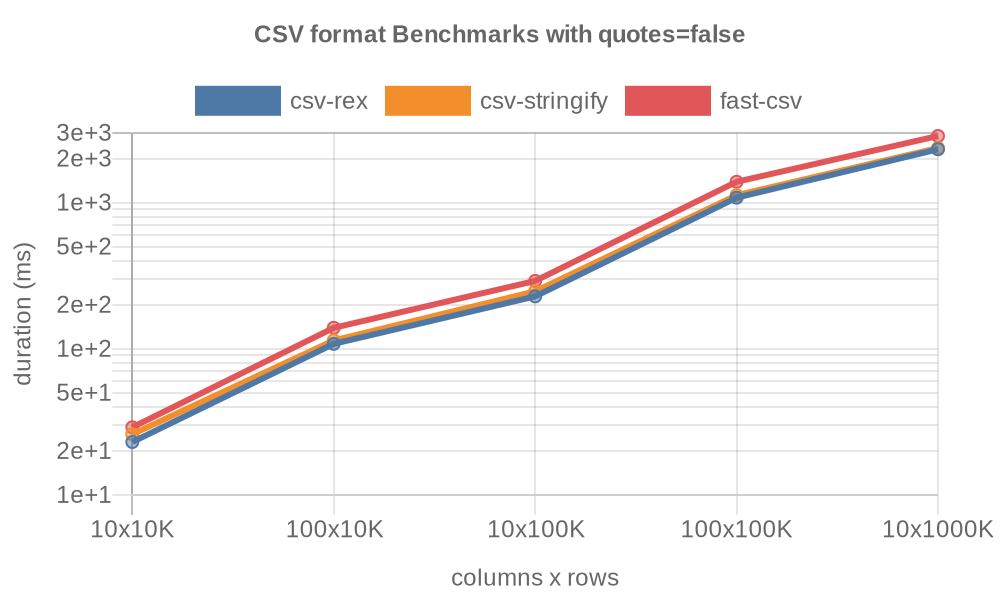
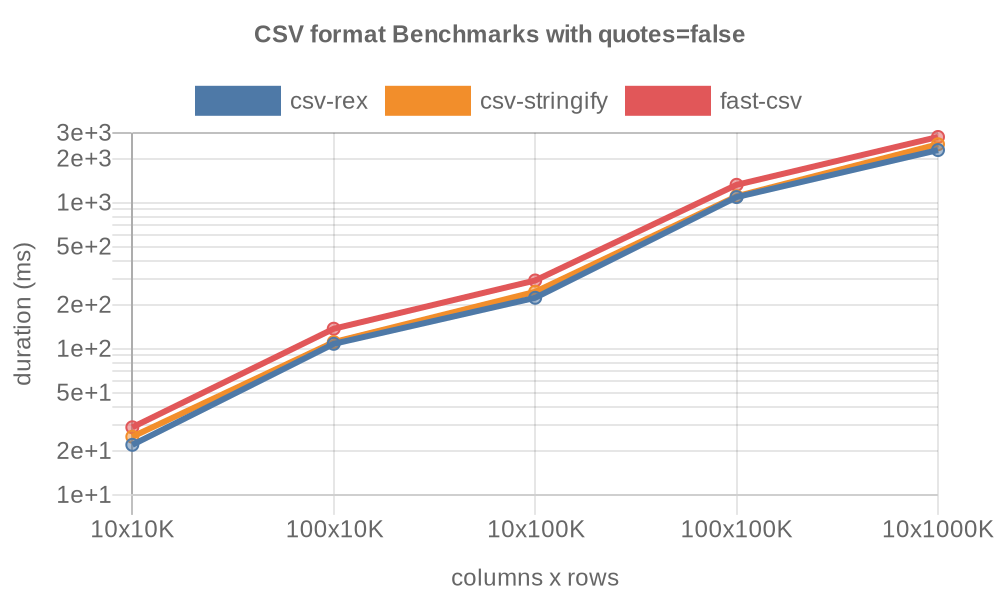
ci: update results

Changed region(s): [[0.124, 0.21, 0.961, 0.75]]

diff --git a/README.md b/README.md
@@ -5,14 +5,14 @@ Benchmarks of popular CSV parsers and formatters:
 <!-- packages -->
 | Package | Version | Published | Parse | Format 
 |---------|---------|-----------|-------|--------
-| [csv-parse](https://www.npmjs.com/package/csv-parse) | 5.5.6 | 4 months ago | Yes |  
+| [csv-parse](https://www.npmjs.com/package/csv-parse) | 5.5.6 | 5 months ago | Yes |  
 | [csv-parser](https://www.npmjs.com/package/csv-parser) | 3.0.0 | 4 years ago | Yes |  
 | [csv-rex](https://www.npmjs.com/package/csv-rex) | 0.7.0 | 1 year ago | Yes | Yes 
-| [csv-streamify](https://www.npmjs.com/package/csv-streamify) | 4.0.0 | 6 years ago | Yes |  
-| [csv-stringify](https://www.npmjs.com/package/csv-stringify) | 6.5.1 | 1 month ago |  | Yes 
+| [csv-streamify](https://www.npmjs.com/package/csv-streamify) | 4.0.0 | 7 years ago | Yes |  
+| [csv-stringify](https://www.npmjs.com/package/csv-stringify) | 6.5.1 | 2 months ago |  | Yes 
 | [csvtojson](https://www.npmjs.com/package/csvtojson) | 2.0.10 | 5 years ago | Yes |  
-| [fast-csv](https://www.npmjs.com/package/fast-csv) | 5.0.1 | 7 months ago | Yes | Yes 
-| [papaparse](https://www.npmjs.com/package/papaparse) | 5.4.1 | 1 year ago | Yes |  
+| [fast-csv](https://www.npmjs.com/package/fast-csv) | 5.0.1 | 8 months ago | Yes | Yes 
+| [papaparse](https://www.npmjs.com/package/papaparse) | 5.4.1 | 2 years ago | Yes |  
 <!-- packages -->
 
 Your preferred CSV package missing? PRs welcome. Excluded packages in `/docs/EXCLUDED.md`.
@@ -39,13 +39,13 @@ Benchmarked on GitHub Actions. Only the fastest 5 will be visualized.
 <!-- parse quotes=true -->
 | Package | 10x10K | 100x10K | 10x100K | 100x100K | 10x1000K 
 |---------|---|---|---|---|---
-| **csv-rex** | 24ms | 172ms | 212ms | 1,724ms | 2,126ms 
-| **papaparse** | 43ms | 209ms | 406ms | 1,992ms | 3,918ms 
-| **csv-parser** | 38ms | 349ms | 390ms | 3,668ms | 4,116ms 
-| **csvtojson** | 56ms | 451ms | 558ms | 4,528ms | 5,611ms 
-| **csv-parse** | 77ms | 667ms | 745ms | 6,802ms | 7,873ms 
-| **csv-streamify** | 78ms | 700ms | 805ms | 7,778ms | 8,941ms 
-| **fast-csv** | 106ms | 937ms | 1,079ms | 9,743ms | 11,226ms 
+| **csv-rex** | 24ms | 188ms | 230ms | 1,890ms | 2,300ms 
+| **papaparse** | 42ms | 215ms | 409ms | 2,057ms | 4,016ms 
+| **csv-parser** | 38ms | 349ms | 381ms | 3,720ms | 4,081ms 
+| **csvtojson** | 58ms | 451ms | 555ms | 4,557ms | 5,598ms 
+| **csv-parse** | 77ms | 658ms | 748ms | 6,851ms | 8,345ms 
+| **csv-streamify** | 74ms | 721ms | 837ms | 7,966ms | 9,153ms 
+| **fast-csv** | 107ms | 947ms | 1,096ms | 9,926ms | 11,432ms 
 <!-- parse quotes=true -->
 
 ![Non-Quoted CSV Parser Benchmarks](https://github.com/willfarrell/csv-benchmarks/raw/main/results/parse_quotes%3Dfalse.png)
@@ -53,13 +53,13 @@ Benchmarked on GitHub Actions. Only the fastest 5 will be visualized.
 <!-- parse quotes=false -->
 | Package | 10x10K | 100x10K | 10x100K | 100x100K | 10x1000K 
 |---------|---|---|---|---|---
-| **csv-rex** | 9ms | 43ms | 81ms | 446ms | 797ms 
-| **csvtojson** | 33ms | 244ms | 328ms | 2,483ms | 3,291ms 
-| **csv-parser** | 32ms | 299ms | 332ms | 3,201ms | 3,587ms 
-| **papaparse** | 129ms | 59ms | 1,156ms | 552ms | 10,482ms 
-| **csv-parse** | 58ms | 518ms | 601ms | 5,525ms | 6,278ms 
-| **csv-streamify** | 68ms | 699ms | 810ms | 7,886ms | 9,105ms 
-| **fast-csv** | 88ms | 773ms | 904ms | 8,114ms | 9,464ms 
+| **csv-rex** | 9ms | 45ms | 81ms | 458ms | 807ms 
+| **csvtojson** | 33ms | 254ms | 329ms | 2,581ms | 3,351ms 
+| **csv-parser** | 34ms | 324ms | 352ms | 3,411ms | 3,793ms 
+| **papaparse** | 127ms | 62ms | 1,161ms | 542ms | 10,431ms 
+| **csv-parse** | 59ms | 526ms | 614ms | 5,579ms | 6,564ms 
+| **csv-streamify** | 68ms | 681ms | 787ms | 7,715ms | 8,876ms 
+| **fast-csv** | 88ms | 781ms | 912ms | 8,098ms | 9,479ms 
 <!-- parse quotes=false -->
 
 ### Format
@@ -69,9 +69,9 @@ Benchmarked on GitHub Actions. Only the fastest 5 will be visualized.
 <!-- format quotes=false -->
 | Package | 10x10K | 100x10K | 10x100K | 100x100K | 10x1000K 
 |---------|---|---|---|---|---
-| **csv-rex** | 23ms | 108ms | 228ms | 1,080ms | 2,314ms 
-| **csv-stringify** | 26ms | 114ms | 247ms | 1,123ms | 2,362ms 
-| **fast-csv** | 29ms | 139ms | 291ms | 1,387ms | 2,854ms 
+| **csv-rex** | 22ms | 108ms | 223ms | 1,090ms | 2,286ms 
+| **csv-stringify** | 25ms | 111ms | 245ms | 1,104ms | 2,505ms 
+| **fast-csv** | 29ms | 137ms | 293ms | 1,322ms | 2,810ms 
 <!-- format quotes=false -->
 
 ## Thanks

diff --git a/results/parse_quotes=true.md b/results/parse_quotes=true.md
@@ -1,9 +1,9 @@
 | Package | 10x10K | 100x10K | 10x100K | 100x100K | 10x1000K 
 |---------|---|---|---|---|---
-| **csv-rex** | 24ms | 172ms | 212ms | 1,724ms | 2,126ms 
-| **papaparse** | 43ms | 209ms | 406ms | 1,992ms | 3,918ms 
-| **csv-parser** | 38ms | 349ms | 390ms | 3,668ms | 4,116ms 
-| **csvtojson** | 56ms | 451ms | 558ms | 4,528ms | 5,611ms 
-| **csv-parse** | 77ms | 667ms | 745ms | 6,802ms | 7,873ms 
-| **csv-streamify** | 78ms | 700ms | 805ms | 7,778ms | 8,941ms 
-| **fast-csv** | 106ms | 937ms | 1,079ms | 9,743ms | 11,226ms 
+| **csv-rex** | 24ms | 188ms | 230ms | 1,890ms | 2,300ms 
+| **papaparse** | 42ms | 215ms | 409ms | 2,057ms | 4,016ms 
+| **csv-parser** | 38ms | 349ms | 381ms | 3,720ms | 4,081ms 
+| **csvtojson** | 58ms | 451ms | 555ms | 4,557ms | 5,598ms 
+| **csv-parse** | 77ms | 658ms | 748ms | 6,851ms | 8,345ms 
+| **csv-streamify** | 74ms | 721ms | 837ms | 7,966ms | 9,153ms 
+| **fast-csv** | 107ms | 947ms | 1,096ms | 9,926ms | 11,432ms 

diff --git a/results/parse_quotes=false.md b/results/parse_quotes=false.md
@@ -1,9 +1,9 @@
 | Package | 10x10K | 100x10K | 10x100K | 100x100K | 10x1000K 
 |---------|---|---|---|---|---
-| **csv-rex** | 9ms | 43ms | 81ms | 446ms | 797ms 
-| **csvtojson** | 33ms | 244ms | 328ms | 2,483ms | 3,291ms 
-| **csv-parser** | 32ms | 299ms | 332ms | 3,201ms | 3,587ms 
-| **papaparse** | 129ms | 59ms | 1,156ms | 552ms | 10,482ms 
-| **csv-parse** | 58ms | 518ms | 601ms | 5,525ms | 6,278ms 
-| **csv-streamify** | 68ms | 699ms | 810ms | 7,886ms | 9,105ms 
-| **fast-csv** | 88ms | 773ms | 904ms | 8,114ms | 9,464ms 
+| **csv-rex** | 9ms | 45ms | 81ms | 458ms | 807ms 
+| **csvtojson** | 33ms | 254ms | 329ms | 2,581ms | 3,351ms 
+| **csv-parser** | 34ms | 324ms | 352ms | 3,411ms | 3,793ms 
+| **papaparse** | 127ms | 62ms | 1,161ms | 542ms | 10,431ms 
+| **csv-parse** | 59ms | 526ms | 614ms | 5,579ms | 6,564ms 
+| **csv-streamify** | 68ms | 681ms | 787ms | 7,715ms | 8,876ms 
+| **fast-csv** | 88ms | 781ms | 912ms | 8,098ms | 9,479ms 

diff --git a/results/format_quotes=false.md b/results/format_quotes=false.md
@@ -1,5 +1,5 @@
 | Package | 10x10K | 100x10K | 10x100K | 100x100K | 10x1000K 
 |---------|---|---|---|---|---
-| **csv-rex** | 23ms | 108ms | 228ms | 1,080ms | 2,314ms 
-| **csv-stringify** | 26ms | 114ms | 247ms | 1,123ms | 2,362ms 
-| **fast-csv** | 29ms | 139ms | 291ms | 1,387ms | 2,854ms 
+| **csv-rex** | 22ms | 108ms | 223ms | 1,090ms | 2,286ms 
+| **csv-stringify** | 25ms | 111ms | 245ms | 1,104ms | 2,505ms 
+| **fast-csv** | 29ms | 137ms | 293ms | 1,322ms | 2,810ms 
